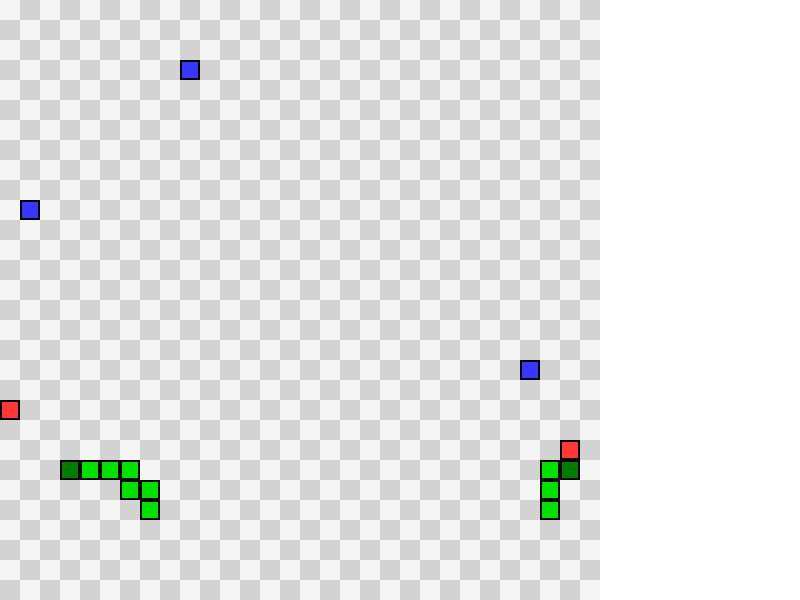
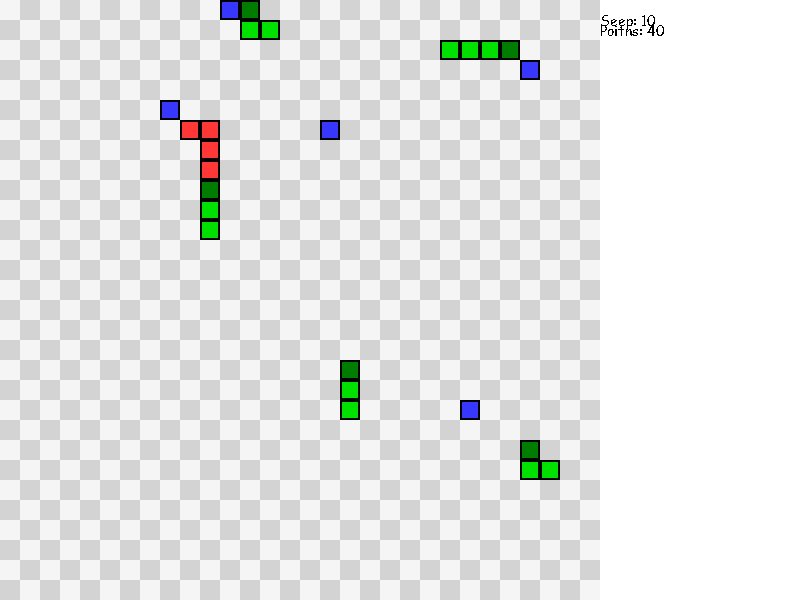
Adding speed increase as pySnakes die and points recording

diff --git a/game/main.py b/game/main.py
@@ -4,7 +4,7 @@ from pygame.surface import Surface
 import sys
 from snakes.Snake import Snake, UserSnake, PySnake
 
-FPS = 15
+FPS = 10
 N_FOODS = 5
 N_PYSNAKES = 5
 
@@ -139,9 +139,22 @@ def main():
     screen = pygame.display.set_mode((SCREEN_WIDTH, SCRERN_HEIGHT))
     pygame.display.set_caption("PySnake")
 
+    # Track initial speed
+    speed = FPS
+    last_rendered_speed = FPS
+
+    # Create fonts and default messages
+    pygame.font.init()
+    my_font = pygame.font.SysFont("Comic Sans MS", 14)
+
+    press_any_key_msg = my_font.render("Press any key to start", False, BLACK, None)
+    speed_msg = my_font.render(f"Seep: {last_rendered_speed}", False, BLACK, None)
+    points_msg = my_font.render(f"Poitns: {userSnake.points}", False, BLACK, None)
+
     # Create clock to control fps
     clock = pygame.time.Clock()
 
+    running = False
     # Main loop
     while True:
         for event in pygame.event.get():
@@ -149,52 +162,68 @@ def main():
                 close()
 
             if event.type == pygame.KEYDOWN:
+                running = True
                 if event.key == pygame.K_LEFT:
                     userSnake.turn("LEFT")
-
-                if event.key == pygame.K_RIGHT:
+                elif event.key == pygame.K_RIGHT:
                     userSnake.turn("RIGHT")
-
-                if event.key == pygame.K_UP:
+                elif event.key == pygame.K_UP:
                     userSnake.turn("UP")
-
-                if event.key == pygame.K_DOWN:
+                elif event.key == pygame.K_DOWN:
                     userSnake.turn("DOWN")
 
-        # Move snakes
-        userSnake.move()
+        if running:
+            # Move snakes
+            userSnake.move()
 
-        for snake in pySnakes_list:
-            snake.chase_food(available_points)
-            snake.move()
-
-        # Check for food eaten
-        was_food_eaten = False
-        if userSnake.head in food_list:
-            userSnake.eat(userSnake.head.copy())
-            food_list.remove(userSnake.head)
-            was_food_eaten = True
-
-        for snake in pySnakes_list:
-            if snake.head in food_list:
-                snake.eat(snake.head.copy())
-                food_list.remove(snake.head)
-                was_food_eaten = True
-
-        if was_food_eaten:
-            available_points = update_available_points(
-                userSnake, pySnakes_list, food_list
-            )
-            while len(food_list) < N_FOODS:
-                food_list.append(use_available_point(available_points))
-
-            available_food_list = food_list.copy()
             for snake in pySnakes_list:
-                snake.chose_target_food(available_food_list)
-                available_food_list.remove(snake.target_food)
+                snake.chase_food(available_points)
+                snake.move()
+
+            # Check for food eaten
+            was_food_eaten = False
+            if userSnake.head in food_list:
+                userSnake.eat(userSnake.head.copy())
+                food_list.remove(userSnake.head)
+                was_food_eaten = True
+                # Update points
+                userSnake.points += speed
+                points_msg = my_font.render(
+                    f"Poitns: {userSnake.points}", False, BLACK, None
+                )
+
+            for snake in pySnakes_list:
+                if snake.head in food_list:
+                    snake.eat(snake.head.copy())
+                    food_list.remove(snake.head)
+                    was_food_eaten = True
+
+            if was_food_eaten:
+                available_points = update_available_points(
+                    userSnake, pySnakes_list, food_list
+                )
+                while len(food_list) < N_FOODS:
+                    food_list.append(use_available_point(available_points))
+
+                available_food_list = food_list.copy()
+                for snake in pySnakes_list:
+                    snake.chose_target_food(available_food_list)
+                    available_food_list.remove(snake.target_food)
 
         # Clean the screen
         screen.fill(WHITE)
+
+        if running:
+            if last_rendered_speed != speed:
+                last_rendered_speed = speed
+                speed_msg = my_font.render(
+                    f"Seep: {last_rendered_speed}", False, BLACK, None
+                )
+            screen.blit(speed_msg, (GRID_WIDTH, 10))
+            screen.blit(points_msg, (GRID_WIDTH, 30))
+
+        else:
+            screen.blit(press_any_key_msg, (GRID_WIDTH, 10))
 
         # Debug avialable_points
         # for point in available_points:
@@ -213,15 +242,12 @@ def main():
         # Draw pySnakes
         for snake in pySnakes_list:
             draw_snake(screen, snake, pySnake_body_rect, pySnake_head_rect)
-            screen.blit(
-                user_snake_body_rect, (snake.target_food[0], snake.target_food[1])
-            )
 
         # Debug target_food
-        for snake in pySnakes_list:
-            screen.blit(
-                user_snake_body_rect, (snake.target_food[0], snake.target_food[1])
-            )
+        # for snake in pySnakes_list:
+        #     screen.blit(
+        #         user_snake_body_rect, (snake.target_food[0], snake.target_food[1])
+        #     )
 
         # Check for colision
         if not grid_rect.collidepoint(userSnake.head[0], userSnake.head[1]):
@@ -230,6 +256,8 @@ def main():
             print_and_close(screen)
 
         for snake in pySnakes_list:
+            if userSnake.head in snake.body:
+                print_and_close(screen)
             if (
                 not grid_rect.collidepoint(snake.head[0], snake.head[1])
                 or snake.self_colision
@@ -242,8 +270,9 @@ def main():
         # Get ready for next iteration
         pySnakes_list.sort(key=lambda x: len(x.body), reverse=False)
         available_points = update_available_points(userSnake, pySnakes_list, food_list)
+        speed = FPS + (FPS // N_PYSNAKES) * (N_PYSNAKES - len(pySnakes_list))
         # Use clock to control FPS
-        clock.tick(FPS)
+        clock.tick(speed)
 
 
 if __name__ == "__main__":

diff --git a/game/snakes/Snake.py b/game/snakes/Snake.py
@@ -43,6 +43,7 @@ class Snake:
 class UserSnake(Snake):
     def __init__(self, head: list, square_size: int):
         super().__init__(head, square_size)
+        self.points = 0
 
     def turn(self, direction: str):
         if self.cur_direction == "RIGHT" and direction == "LEFT":
